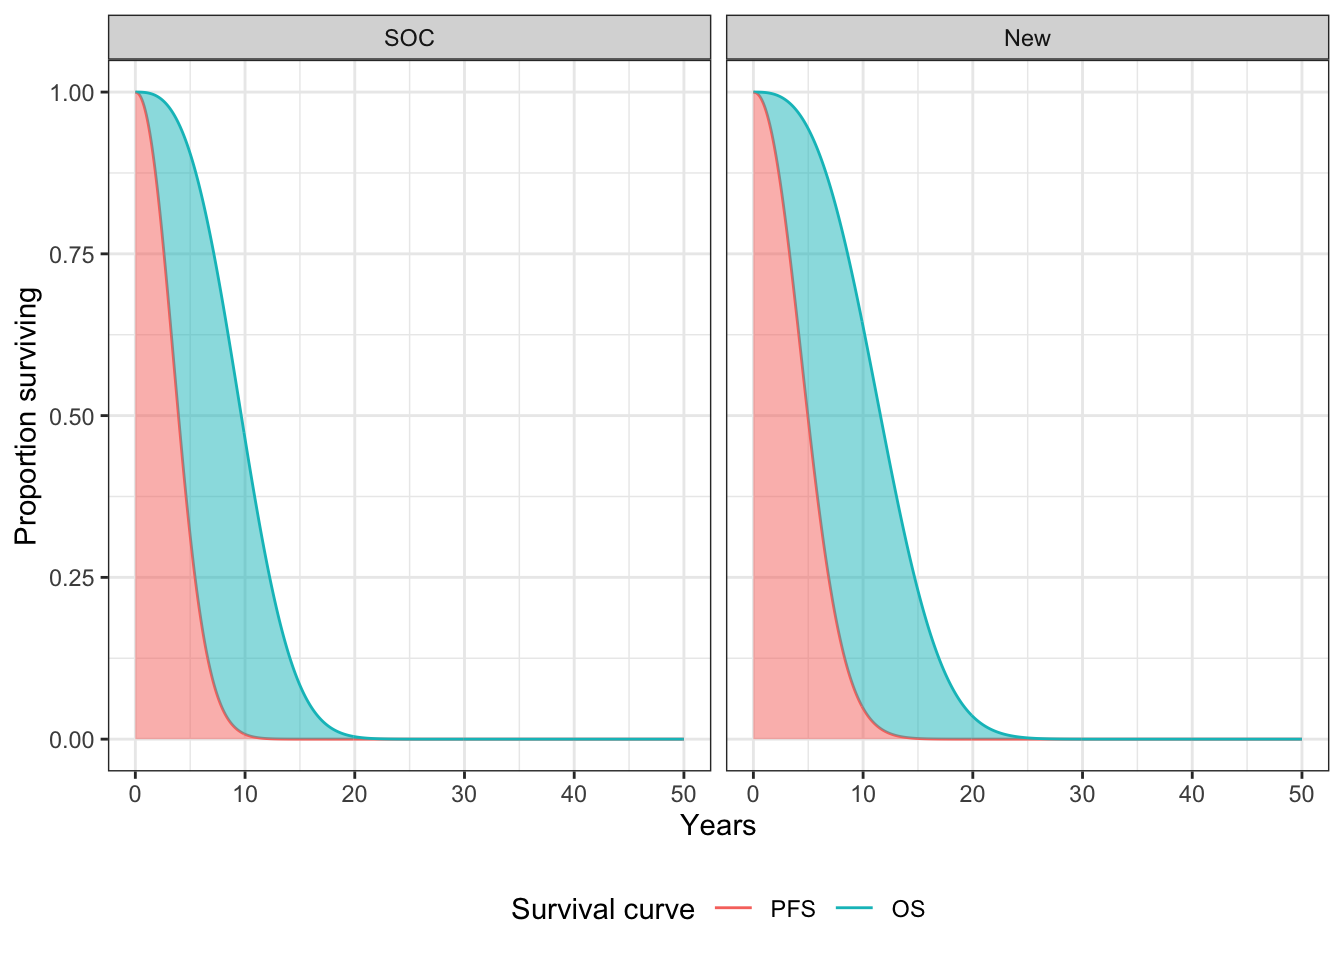
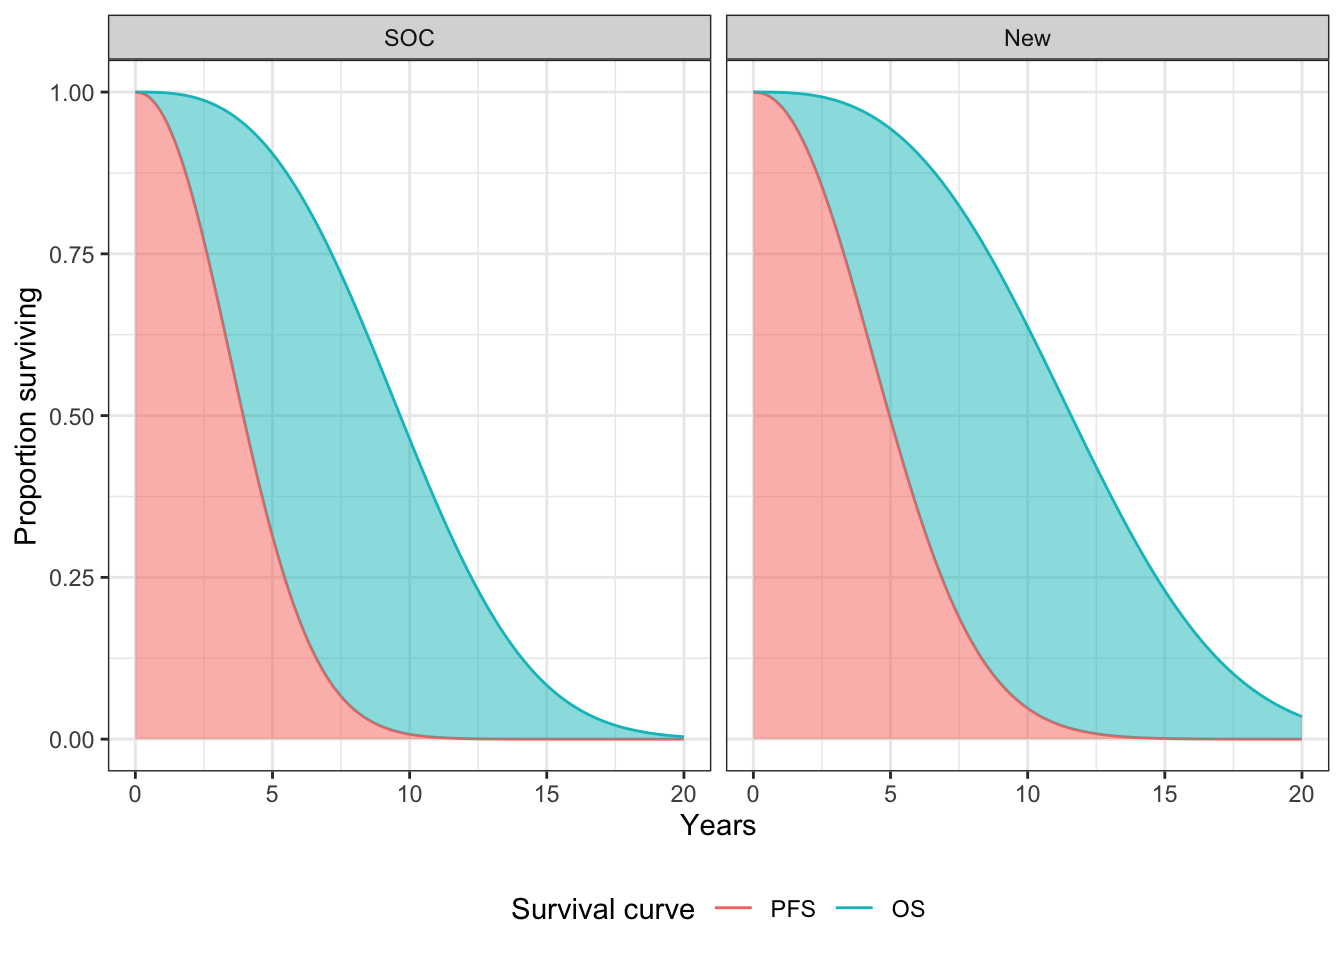
Rebuild site

diff --git a/docs/articles/03-markov-cohort-hesim.html b/docs/articles/03-markov-cohort-hesim.html
@@ -37,7 +37,7 @@
       </button>
       <span class="navbar-brand">
         <a class="navbar-link" href="../index.html">rcea</a>
-        <span class="version label label-default" data-toggle="tooltip" data-placement="bottom" title="Released version">0.0.2</span>
+        <span class="version label label-default" data-toggle="tooltip" data-placement="bottom" title="Released version">0.1.1</span>
       </span>
     </div>
 
@@ -258,11 +258,11 @@
 <span class="fu"><a href="https://rdrr.io/r/utils/head.html">head</a></span>(<span class="no">econmod</span>$<span class="no">stateprobs_</span>)</pre></body></html></div>
 <pre><code>##    sample strategy_id patient_id grp_id state_id t      prob
 ## 1:      1           1          1      1        1 0 1.0000000
-## 2:      1           1          1      1        1 1 0.8534473
-## 3:      1           1          1      1        1 2 0.7997430
-## 4:      1           1          1      1        1 3 0.7714319
-## 5:      1           1          1      1        1 4 0.7503073
-## 6:      1           1          1      1        1 5 0.7314487</code></pre>
+## 2:      1           1          1      1        1 1 0.8511900
+## 3:      1           1          1      1        1 2 0.7997307
+## 4:      1           1          1      1        1 3 0.7720623
+## 5:      1           1          1      1        1 4 0.7505028
+## 6:      1           1          1      1        1 5 0.7307944</code></pre>
 </div>
 <div id="costs-and-qalys" class="section level3">
 <h3 class="hasAnchor">
@@ -271,21 +271,21 @@
 <div class="sourceCode" id="cb13"><html><body><pre class="r"><span class="no">econmod</span>$<span class="fu"><a href="https://hesim-dev.github.io/hesim/reference/sim_ev.html">sim_qalys</a></span>(<span class="kw">dr</span> <span class="kw">=</span> <span class="fl">0.03</span>, <span class="kw">lys</span> <span class="kw">=</span> <span class="fl">TRUE</span>, <span class="kw">integrate_method</span> <span class="kw">=</span> <span class="st">"riemann_right"</span>)
 <span class="fu"><a href="https://rdrr.io/r/utils/head.html">head</a></span>(<span class="no">econmod</span>$<span class="no">qalys_</span>)</pre></body></html></div>
 <pre><code>##    sample strategy_id patient_id grp_id state_id   dr     qalys       lys
-## 1:      1           1          1      1        1 0.03 14.659959 14.659959
-## 2:      1           1          1      1        2 0.03  2.656084  3.556628
-## 3:      1           1          1      1        3 0.03  4.126972  6.853798
-## 4:      1           2          1      1        1 0.03 17.322383 17.322383
-## 5:      1           2          1      1        2 0.03  2.600815  3.482619
-## 6:      1           2          1      1        3 0.03  3.484025  5.786034</code></pre>
+## 1:      1           1          1      1        1 0.03 14.364842 14.364842
+## 2:      1           1          1      1        2 0.03  2.465829  3.417486
+## 3:      1           1          1      1        3 0.03  3.639365  8.222516
+## 4:      1           2          1      1        1 0.03 17.066088 17.066088
+## 5:      1           2          1      1        2 0.03  2.436398  3.376697
+## 6:      1           2          1      1        3 0.03  3.037797  6.863376</code></pre>
 <div class="sourceCode" id="cb15"><html><body><pre class="r"><span class="no">econmod</span>$<span class="fu"><a href="https://hesim-dev.github.io/hesim/reference/sim_ev.html">sim_costs</a></span>(<span class="kw">dr</span> <span class="kw">=</span> <span class="fl">0.03</span>, <span class="kw">integrate_method</span> <span class="kw">=</span> <span class="st">"riemann_right"</span>)
 <span class="fu"><a href="https://rdrr.io/r/utils/head.html">head</a></span>(<span class="no">econmod</span>$<span class="no">costs_</span>)</pre></body></html></div>
 <pre><code>##    sample strategy_id patient_id grp_id state_id   dr  category      costs
-## 1:      1           1          1      1        1 0.03 treatment  29319.918
-## 2:      1           1          1      1        2 0.03 treatment   7113.255
-## 3:      1           1          1      1        3 0.03 treatment  13707.597
-## 4:      1           2          1      1        1 0.03 treatment 207868.593
-## 5:      1           2          1      1        2 0.03 treatment  41791.428
-## 6:      1           2          1      1        3 0.03 treatment  69432.411</code></pre>
+## 1:      1           1          1      1        1 0.03 treatment  28729.683
+## 2:      1           1          1      1        2 0.03 treatment   6834.972
+## 3:      1           1          1      1        3 0.03 treatment  16445.032
+## 4:      1           2          1      1        1 0.03 treatment 204793.054
+## 5:      1           2          1      1        2 0.03 treatment  40520.366
+## 6:      1           2          1      1        3 0.03 treatment  82360.514</code></pre>
 </div>
 </div>
 </div>
@@ -300,10 +300,10 @@
 <p>Although <code><a href="https://hesim-dev.github.io/hesim/reference/cea.html">cea_pw()</a></code> allows users to summarize output from a PSA we will just create an ICER table using means for now. A complete analysis is provided in the <a href="06-cea.html">CEA tutorial</a>.</p>
 <div class="sourceCode" id="cb18"><html><body><pre class="r"><span class="fu"><a href="https://hesim-dev.github.io/hesim/reference/icer_tbl.html">icer_tbl</a></span>(<span class="no">cea_pw_out</span>, <span class="kw">colnames</span> <span class="kw">=</span> <span class="no">strategies</span>$<span class="no">strategy_name</span>)</pre></body></html></div>
 <pre><code>##                   SOC New                           
-## Incremental QALYs "-" "2.05 (1.00, 3.09)"           
-## Incremental costs "-" "257,811 (207,335, 286,980)"  
-## Incremental NMB   "-" "-155,104 (-211,830, -74,328)"
-## ICER              "-" "125,508"                     
+## Incremental QALYs "-" "2.06 (1.05, 3.07)"           
+## Incremental costs "-" "258,478 (209,277, 286,721)"  
+## Incremental NMB   "-" "-155,528 (-213,380, -78,223)"
+## ICER              "-" "125,535"                     
 ## Conclusion        "-" "Not cost-effective"</code></pre>
 </div>
   </div>

diff --git a/docs/articles/05-psm.html b/docs/articles/05-psm.html
@@ -37,7 +37,7 @@
       </button>
       <span class="navbar-brand">
         <a class="navbar-link" href="../index.html">rcea</a>
-        <span class="version label label-default" data-toggle="tooltip" data-placement="bottom" title="Released version">0.0.2</span>
+        <span class="version label label-default" data-toggle="tooltip" data-placement="bottom" title="Released version">0.1.1</span>
       </span>
     </div>
 
@@ -309,7 +309,7 @@ C &amp; p_1 - p_2 &amp; p_2\\
 <h3 class="hasAnchor">
 <a href="#survival-curves" class="anchor"></a><span class="header-section-number">5.3.1</span> Survival curves</h3>
 <p>Once the PSM has been initialized, the <code>$sim_survival()</code> method can be used to generate survival curves for each endpoint.</p>
-<div class="sourceCode" id="cb19"><html><body><pre class="r"><span class="no">times</span> <span class="kw">&lt;-</span> <span class="fu"><a href="https://rdrr.io/r/base/seq.html">seq</a></span>(<span class="fl">0</span>, <span class="fl">50</span>, <span class="kw">by</span> <span class="kw">=</span> <span class="fl">.1</span>)
+<div class="sourceCode" id="cb19"><html><body><pre class="r"><span class="no">times</span> <span class="kw">&lt;-</span> <span class="fu"><a href="https://rdrr.io/r/base/seq.html">seq</a></span>(<span class="fl">0</span>, <span class="fl">20</span>, <span class="kw">by</span> <span class="kw">=</span> <span class="fl">.1</span>)
 <span class="no">econmod</span>$<span class="fu">sim_survival</span>(<span class="kw">t</span> <span class="kw">=</span> <span class="no">times</span>)
 <span class="fu"><a href="https://rdrr.io/r/utils/head.html">head</a></span>(<span class="no">econmod</span>$<span class="no">survival_</span>)</pre></body></html></div>
 <pre><code>##    sample strategy_id patient_id grp_id patient_wt curve   t  survival
@@ -355,10 +355,10 @@ C &amp; p_1 - p_2 &amp; p_2\\
 <span class="no">cea_pw_out</span> <span class="kw">&lt;-</span> <span class="fu"><a href="https://hesim-dev.github.io/hesim/reference/cea.html">cea_pw</a></span>(<span class="no">ce_sim</span>, <span class="kw">comparator</span> <span class="kw">=</span> <span class="fl">1</span>, <span class="kw">dr_qalys</span> <span class="kw">=</span> <span class="fl">.03</span>, <span class="kw">dr_costs</span> <span class="kw">=</span> <span class="fl">.03</span>)
 <span class="fu"><a href="https://hesim-dev.github.io/hesim/reference/icer_tbl.html">icer_tbl</a></span>(<span class="no">cea_pw_out</span>, <span class="kw">colnames</span> <span class="kw">=</span> <span class="no">strategies</span>$<span class="no">strategy_name</span>)</pre></body></html></div>
 <pre><code>##                   SOC New                         
-## Incremental QALYs "-" "1.01 (0.85, 1.16)"         
-## Incremental costs "-" "105,899 (99,877, 120,062)" 
-## Incremental NMB   "-" "-55,602 (-69,616, -48,132)"
-## ICER              "-" "105,274"                   
+## Incremental QALYs "-" "0.99 (0.83, 1.14)"         
+## Incremental costs "-" "105,172 (99,504, 118,350)" 
+## Incremental NMB   "-" "-55,829 (-69,066, -48,682)"
+## ICER              "-" "106,572"                   
 ## Conclusion        "-" "Not cost-effective"</code></pre>
 </div>
   </div>

diff --git a/docs/articles/02-markov-cohort-psa.html b/docs/articles/02-markov-cohort-psa.html
@@ -37,7 +37,7 @@
       </button>
       <span class="navbar-brand">
         <a class="navbar-link" href="../index.html">rcea</a>
-        <span class="version label label-default" data-toggle="tooltip" data-placement="bottom" title="Released version">0.0.2</span>
+        <span class="version label label-default" data-toggle="tooltip" data-placement="bottom" title="Released version">0.1.1</span>
       </span>
     </div>
 
@@ -203,20 +203,20 @@
 <span class="fu"><a href="https://rdrr.io/r/base/names.html">names</a></span>(<span class="no">params_rng</span>)</pre></body></html></div>
 <pre><code>## [1] "p_soc"     "rr_new"    "c_medical" "c_soc"     "c_new"     "u"</code></pre>
 <div class="sourceCode" id="cb6"><html><body><pre class="r"><span class="fu"><a href="https://rdrr.io/r/utils/head.html">head</a></span>(<span class="fu"><a href="https://Rdatatable.gitlab.io/data.table/reference/as.matrix.html">as.matrix</a></span>(<span class="no">params_rng</span>$<span class="no">p_soc</span>))</pre></body></html></div>
-<pre><code>##            h_h      h_s1 h_s2          h_d      s1_h     s1_s1      s1_s2
-## [1,] 0.8229604 0.1735076    0 0.0035319877 0.5022534 0.3928572 0.10010491
-## [2,] 0.8597577 0.1388772    0 0.0013650739 0.4783000 0.3918931 0.11579030
-## [3,] 0.8568210 0.1408136    0 0.0023654430 0.5024703 0.3837652 0.10460675
-## [4,] 0.8350722 0.1635178    0 0.0014099482 0.5123085 0.3746204 0.10736778
-## [5,] 0.8612320 0.1361734    0 0.0025945169 0.5277832 0.3785057 0.09003335
-## [6,] 0.8713500 0.1276645    0 0.0009854568 0.4813226 0.4067765 0.10691438
+<pre><code>##            h_h      h_s1 h_s2         h_d      s1_h     s1_s1      s1_s2
+## [1,] 0.8479331 0.1482988    0 0.003768073 0.5423245 0.3318563 0.12022495
+## [2,] 0.8554654 0.1435194    0 0.001015201 0.5037633 0.3891304 0.10236400
+## [3,] 0.8458079 0.1514860    0 0.002706053 0.4915723 0.4047599 0.09472588
+## [4,] 0.8576554 0.1417907    0 0.000553897 0.4963850 0.3865342 0.10648756
+## [5,] 0.8517286 0.1431262    0 0.005145212 0.4962748 0.3940465 0.09974396
+## [6,] 0.8590279 0.1389314    0 0.002040691 0.4524406 0.4154996 0.12237705
 ##             s1_d s2_h s2_s1     s2_s2       s2_d d_h d_s1 d_s2 d_d
-## [1,] 0.004784427    0     0 0.9748073 0.02519269   0    0    0   1
-## [2,] 0.014016547    0     0 0.9763973 0.02360272   0    0    0   1
-## [3,] 0.009157753    0     0 0.9750980 0.02490196   0    0    0   1
-## [4,] 0.005703406    0     0 0.9864470 0.01355297   0    0    0   1
-## [5,] 0.003677734    0     0 0.9764937 0.02350634   0    0    0   1
-## [6,] 0.004986546    0     0 0.9767308 0.02326919   0    0    0   1</code></pre>
+## [1,] 0.005594207    0     0 0.9813034 0.01869664   0    0    0   1
+## [2,] 0.004742323    0     0 0.9737893 0.02621067   0    0    0   1
+## [3,] 0.008941934    0     0 0.9855614 0.01443861   0    0    0   1
+## [4,] 0.010593319    0     0 0.9766743 0.02332569   0    0    0   1
+## [5,] 0.009934788    0     0 0.9837805 0.01621951   0    0    0   1
+## [6,] 0.009682731    0     0 0.9649104 0.03508965   0    0    0   1</code></pre>
 </div>
 <div id="simulating-the-markov-model" class="section level2">
 <h2 class="hasAnchor">

diff --git a/docs/articles/06-cea.html b/docs/articles/06-cea.html
@@ -37,7 +37,7 @@
       </button>
       <span class="navbar-brand">
         <a class="navbar-link" href="../index.html">rcea</a>
-        <span class="version label label-default" data-toggle="tooltip" data-placement="bottom" title="Released version">0.0.2</span>
+        <span class="version label label-default" data-toggle="tooltip" data-placement="bottom" title="Released version">0.1.1</span>
       </span>
     </div>
 
@@ -218,7 +218,7 @@ c_{j} &amp;= [c_{j}^1, c_{j}^2, \dots, c_{j}^m].
 <span class="no">format_dollar</span> <span class="kw">&lt;-</span> <span class="kw">function</span>(<span class="no">x</span>) {
   <span class="fu"><a href="https://rdrr.io/r/base/paste.html">paste0</a></span>(<span class="st">"$"</span>, <span class="fu"><a href="https://rdrr.io/r/base/formatc.html">formatC</a></span>(<span class="no">x</span>, <span class="kw">format</span> <span class="kw">=</span> <span class="st">"d"</span>, <span class="kw">big.mark</span> <span class="kw">=</span> <span class="st">","</span>))
 }</pre></body></html></div>
-<p>The dotted line in the plot is the WTP line, with slope equal to the desire value of <span class="math inline">\(k\)</span> (in this case $50,000). For a chosen <span class="math inline">\(k\)</span>, points below the line are cost-effective while those above it are not.</p>
+<p>The dotted line in the plot is the WTP line, with slope equal to the desire value of <span class="math inline">\(k\)</span> (in this case $100,000). For a chosen <span class="math inline">\(k\)</span>, points below the line are cost-effective while those above it are not.</p>
 <div class="sourceCode" id="cb8"><html><body><pre class="r"><span class="no">ylim</span> <span class="kw">&lt;-</span> <span class="fu"><a href="https://rdrr.io/r/base/Extremes.html">max</a></span>(<span class="no">cea_pw_out</span>$<span class="no">delta</span>[, <span class="no">ic</span>]) * <span class="fl">1.1</span>
 <span class="no">xlim</span> <span class="kw">&lt;-</span> <span class="fu"><a href="https://rdrr.io/r/base/Round.html">ceiling</a></span>(<span class="fu"><a href="https://rdrr.io/r/base/Extremes.html">max</a></span>(<span class="no">cea_pw_out</span>$<span class="no">delta</span>[, <span class="no">ie</span>]) * <span class="fl">1.1</span>)
 <span class="fu"><a href="https://ggplot2.tidyverse.org/reference/ggplot.html">ggplot</a></span>(<span class="no">cea_pw_out</span>$<span class="no">delta</span>,

diff --git a/docs/articles/01-markov-cohort.html b/docs/articles/01-markov-cohort.html
@@ -37,7 +37,7 @@
       </button>
       <span class="navbar-brand">
         <a class="navbar-link" href="../index.html">rcea</a>
-        <span class="version label label-default" data-toggle="tooltip" data-placement="bottom" title="Released version">0.0.2</span>
+        <span class="version label label-default" data-toggle="tooltip" data-placement="bottom" title="Released version">0.1.1</span>
       </span>
     </div>
 
@@ -254,7 +254,7 @@ NPV = \sum_{t} PV_t
 ##     }
 ##     return(x)
 ## }
-## &lt;bytecode: 0x7fdc18a758a8&gt;
+## &lt;bytecode: 0x7f868b592570&gt;
 ## &lt;environment: namespace:rcea&gt;</code></pre>
 <p>We perform the computation for both the SOC and new treatment. As expected, patients remain in less severe health states longer when using the new treatment.</p>
 <div class="sourceCode" id="cb15"><html><body><pre class="r"><span class="no">x_soc</span> <span class="kw">&lt;-</span> <span class="fu"><a href="../reference/sim_markov_chain.html">sim_markov_chain</a></span>(<span class="no">x_init</span>, <span class="no">p_soc</span>)
@@ -286,7 +286,7 @@ NPV = \sum_{t} PV_t
 ## {
 ##     z/(1 + dr)^t
 ## }
-## &lt;bytecode: 0x7fdc18d0b8a8&gt;
+## &lt;bytecode: 0x7f868c1ec970&gt;
 ## &lt;environment: namespace:rcea&gt;</code></pre>
 <div id="qalys" class="section level3">
 <h3 class="hasAnchor">

diff --git a/docs/reference/sim_markov_chain.html b/docs/reference/sim_markov_chain.html
@@ -83,7 +83,7 @@ that is, a Markov chain with constant transition probabilities." />
       </button>
       <span class="navbar-brand">
         <a class="navbar-link" href="../index.html">rcea</a>
-        <span class="version label label-default" data-toggle="tooltip" data-placement="bottom" title="Released version">0.0.2</span>
+        <span class="version label label-default" data-toggle="tooltip" data-placement="bottom" title="Released version">0.1.1</span>
       </span>
     </div>
 

diff --git a/docs/reference/use_rcea.html b/docs/reference/use_rcea.html
@@ -83,7 +83,7 @@ rcea package to the directory specified by path." />
       </button>
       <span class="navbar-brand">
         <a class="navbar-link" href="../index.html">rcea</a>
-        <span class="version label label-default" data-toggle="tooltip" data-placement="bottom" title="Released version">0.0.2</span>
+        <span class="version label label-default" data-toggle="tooltip" data-placement="bottom" title="Released version">0.1.1</span>
       </span>
     </div>
 

diff --git a/docs/reference/sim_mstate3_data.html b/docs/reference/sim_mstate3_data.html
@@ -84,7 +84,7 @@ right censored after 15 years of followup." />
       </button>
       <span class="navbar-brand">
         <a class="navbar-link" href="../index.html">rcea</a>
-        <span class="version label label-default" data-toggle="tooltip" data-placement="bottom" title="Released version">0.0.2</span>
+        <span class="version label label-default" data-toggle="tooltip" data-placement="bottom" title="Released version">0.1.1</span>
       </span>
     </div>
 

diff --git a/docs/reference/sim_pfs_os_data.html b/docs/reference/sim_pfs_os_data.html
@@ -84,7 +84,7 @@ and overall survival (OS)." />
       </button>
       <span class="navbar-brand">
         <a class="navbar-link" href="../index.html">rcea</a>
-        <span class="version label label-default" data-toggle="tooltip" data-placement="bottom" title="Released version">0.0.2</span>
+        <span class="version label label-default" data-toggle="tooltip" data-placement="bottom" title="Released version">0.1.1</span>
       </span>
     </div>
 

diff --git a/docs/404.html b/docs/404.html
@@ -81,7 +81,7 @@
       </button>
       <span class="navbar-brand">
         <a class="navbar-link" href="https://hesim-dev.github.io/rcea/index.html">rcea</a>
-        <span class="version label label-default" data-toggle="tooltip" data-placement="bottom" title="Released version">0.0.2</span>
+        <span class="version label label-default" data-toggle="tooltip" data-placement="bottom" title="Released version">0.1.1</span>
       </span>
     </div>
 

diff --git a/docs/reference/pv.html b/docs/reference/pv.html
@@ -83,7 +83,7 @@ dr and times t." />
       </button>
       <span class="navbar-brand">
         <a class="navbar-link" href="../index.html">rcea</a>
-        <span class="version label label-default" data-toggle="tooltip" data-placement="bottom" title="Released version">0.0.2</span>
+        <span class="version label label-default" data-toggle="tooltip" data-placement="bottom" title="Released version">0.1.1</span>
       </span>
     </div>
 

diff --git a/docs/articles/04-mstate.html b/docs/articles/04-mstate.html
@@ -37,7 +37,7 @@
       </button>
       <span class="navbar-brand">
         <a class="navbar-link" href="../index.html">rcea</a>
-        <span class="version label label-default" data-toggle="tooltip" data-placement="bottom" title="Released version">0.0.2</span>
+        <span class="version label label-default" data-toggle="tooltip" data-placement="bottom" title="Released version">0.1.1</span>
       </span>
     </div>
 
